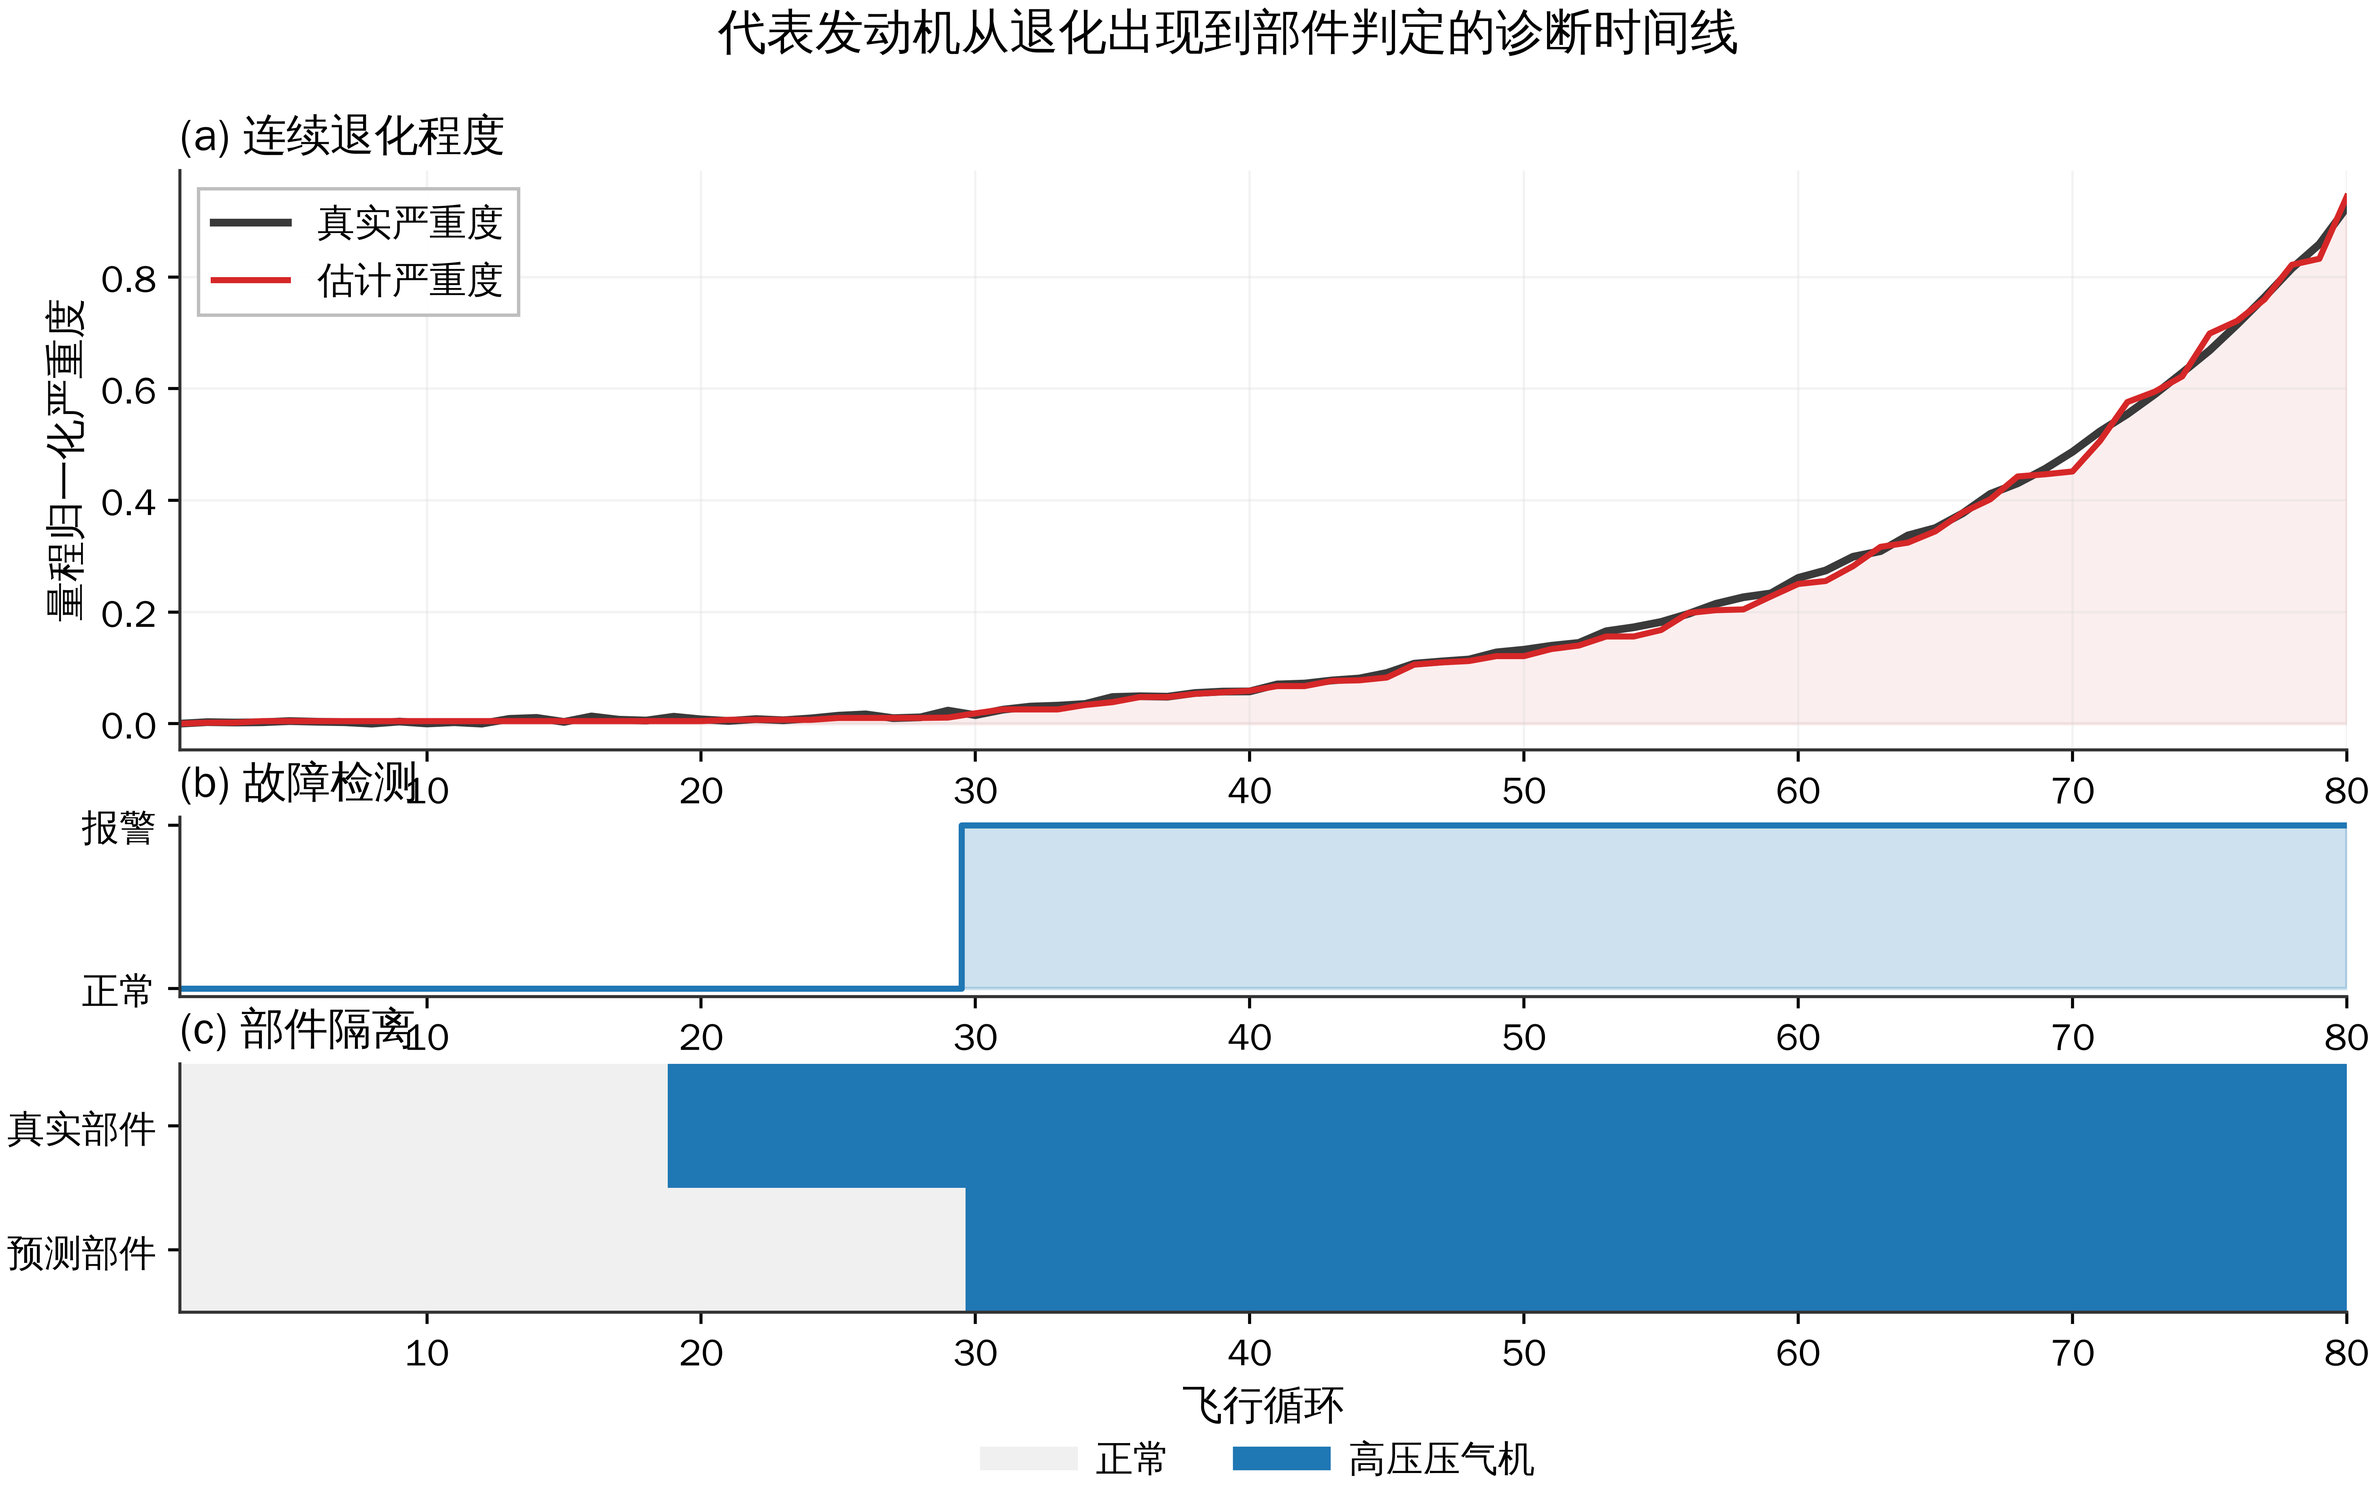
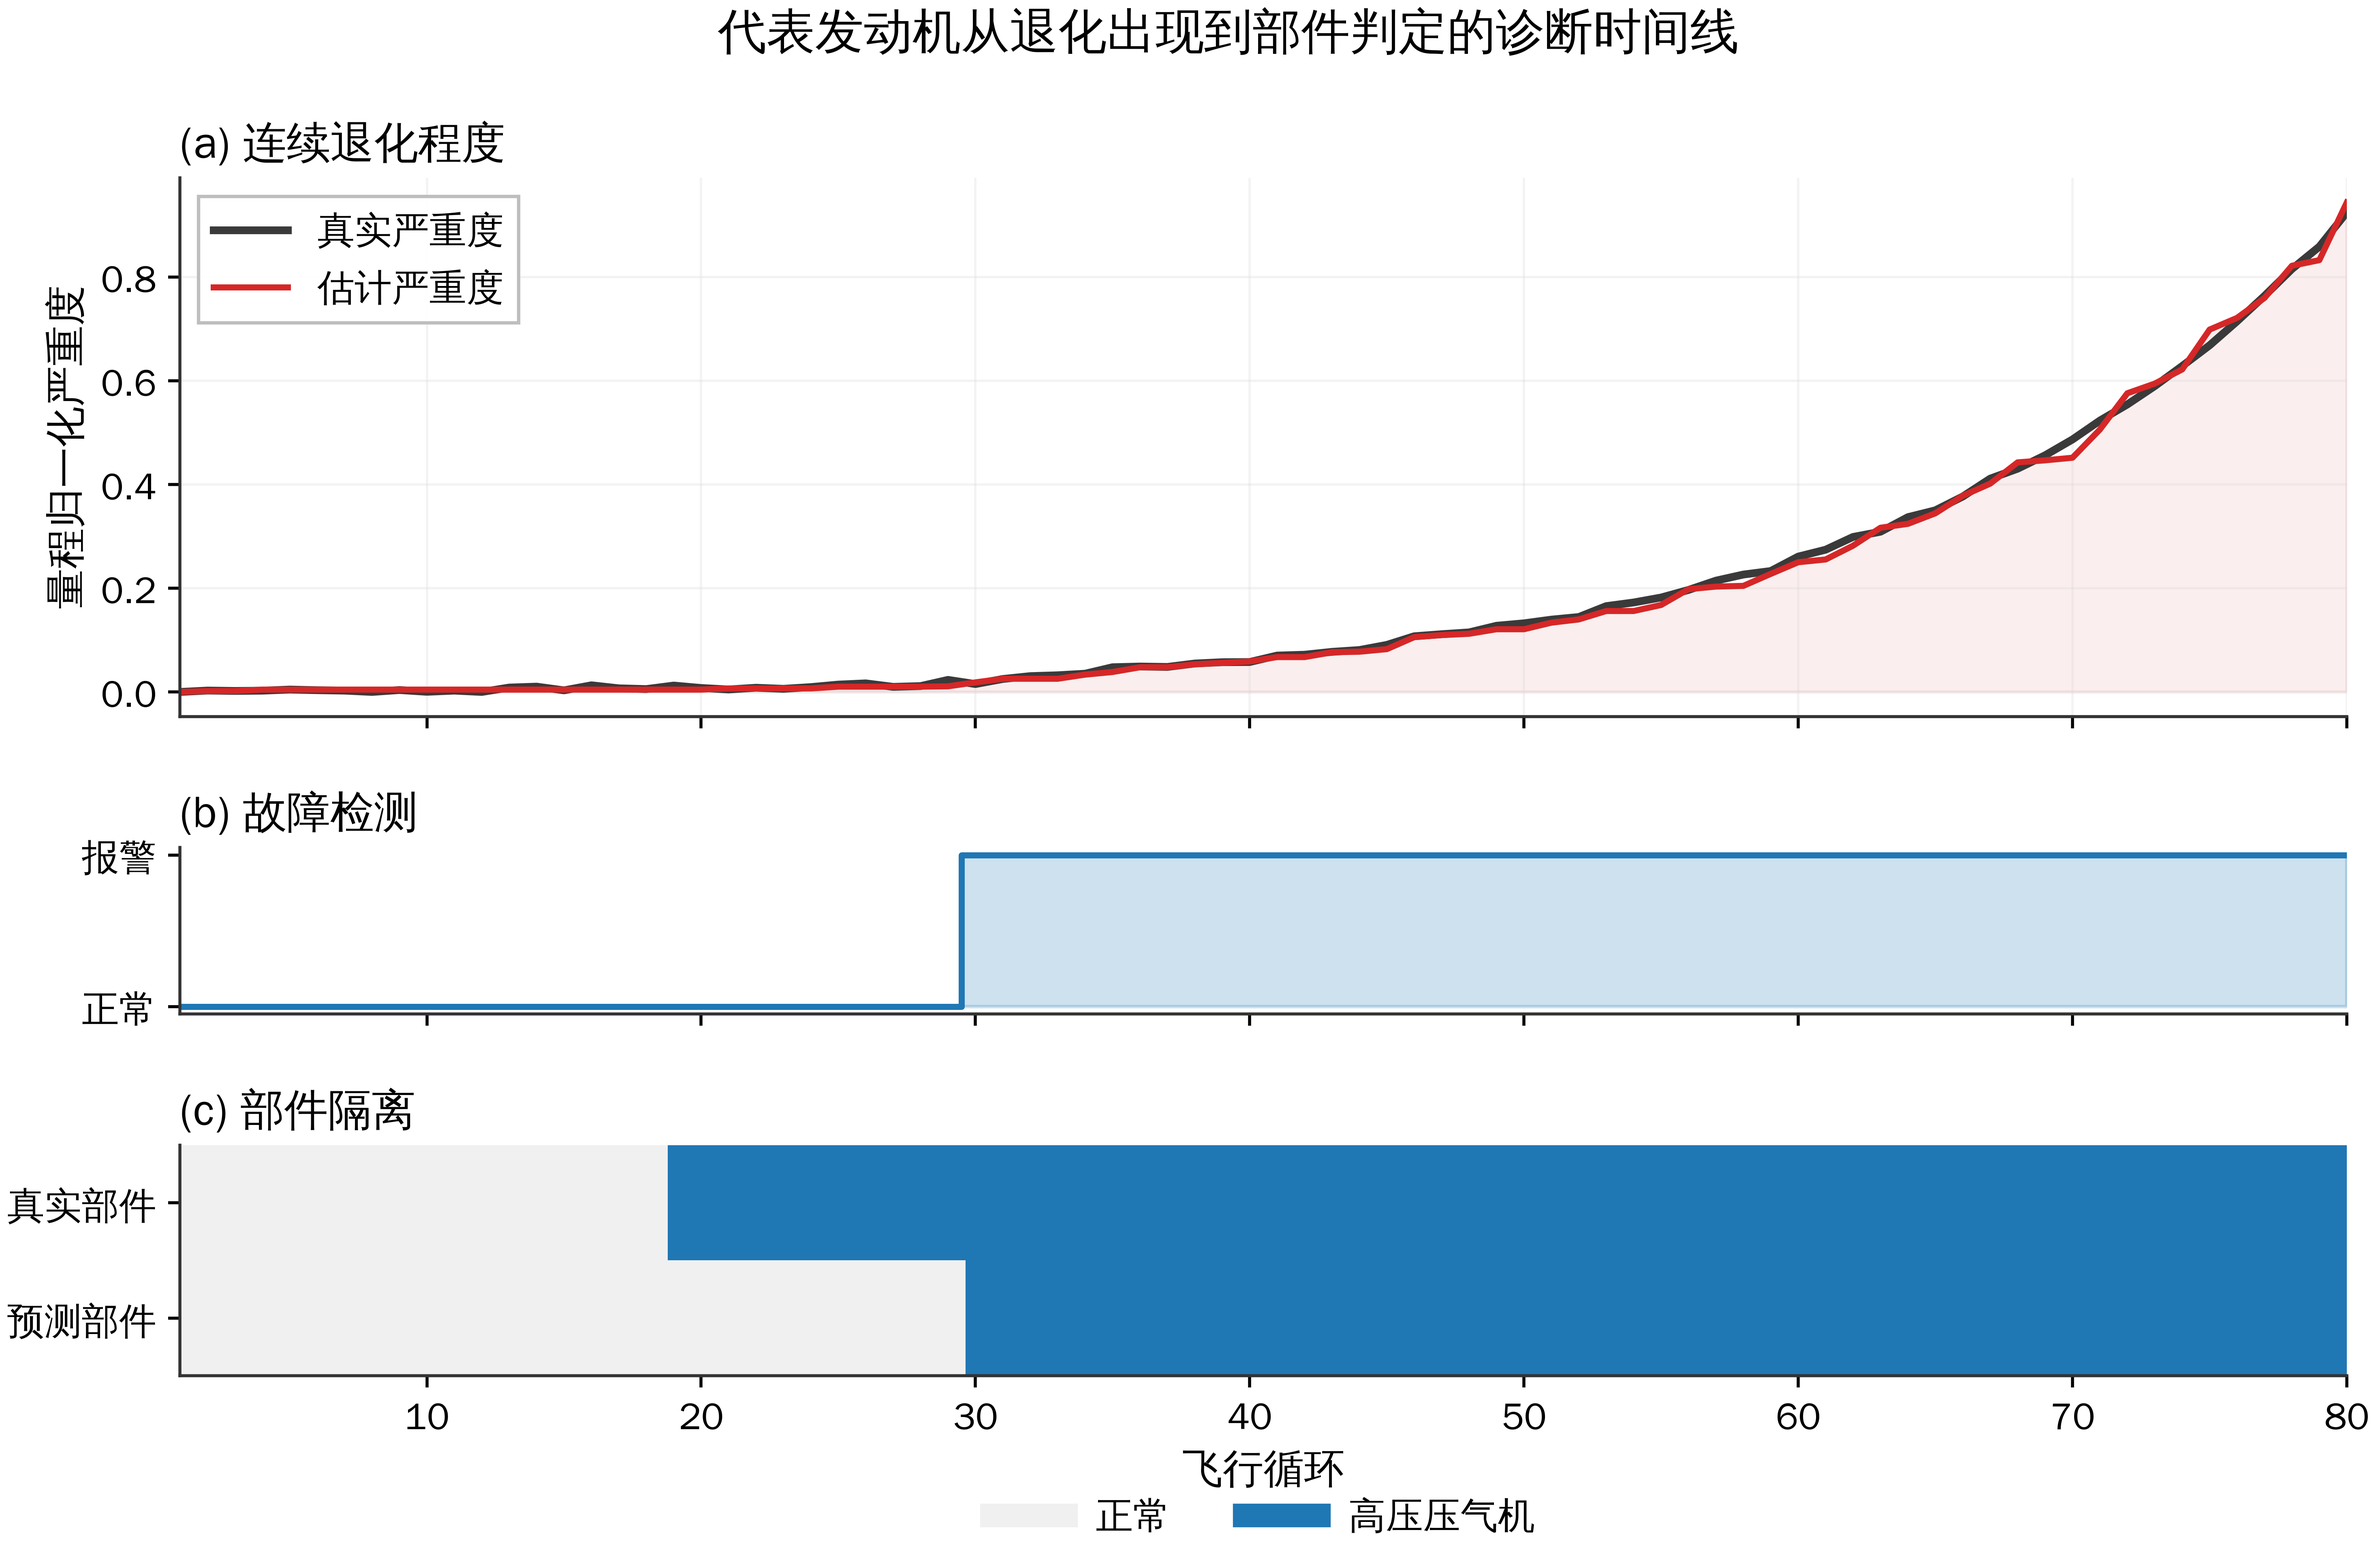
修复图3-14时间线子图标题与共享横轴刻度碰撞：隐藏中间刻度标签、加大行距

diff --git a/figure_pipeline/fig_dtae.py b/figure_pipeline/fig_dtae.py
@@ -100,16 +100,18 @@ def fig_latent():
 
 def fig_timeline():
     d = pd.read_csv(os.path.join(FD, "timeline.csv"), encoding="utf-8-sig")
-    fig = plt.figure(figsize=(11.5, 6.1)); gs=GridSpec(3,1,height_ratios=[2.1,.65,.9],hspace=.20,figure=fig)
+    fig = plt.figure(figsize=(11.5, 6.4)); gs=GridSpec(3,1,height_ratios=[2.1,.65,.9],hspace=.42,figure=fig)
     ax=fig.add_subplot(gs[0]);
     ax.plot(d.cycle,d.severity_true,color=S.TRUTH_COLOR,lw=2.3,label="真实严重度")
     ax.plot(d.cycle,d.severity_est,color=S.D_COLOR,lw=1.8,label="估计严重度")
     ax.fill_between(d.cycle,0,d.severity_est,color=S.D_COLOR,alpha=.08)
     ax.set_ylabel("量程归一化严重度"); ax.set_title("(a) 连续退化程度",loc="left"); ax.grid(alpha=.3); ax.legend()
+    ax.tick_params(labelbottom=False)   # 与下方子图共享横轴，隐藏中间刻度标签避免与标题碰撞
     ax=fig.add_subplot(gs[1],sharex=ax)
     ax.step(d.cycle,d.detected,where="mid",color=S.B_COLOR,lw=1.8)
     ax.fill_between(d.cycle,0,d.detected,step="mid",color=S.B_COLOR,alpha=.22)
     ax.set_yticks([0,1]); ax.set_yticklabels(["正常","报警"]); ax.set_title("(b) 故障检测",loc="left")
+    ax.tick_params(labelbottom=False)
     ax=fig.add_subplot(gs[2],sharex=ax)
     labels=list(dict.fromkeys(["正常"]+d.truth.tolist()+d.pred.tolist()))
     cmap=ListedColormap(["#F0F0F0"]+[S.PART_COLORS.get(x,"#756BB1") for x in labels[1:]])
